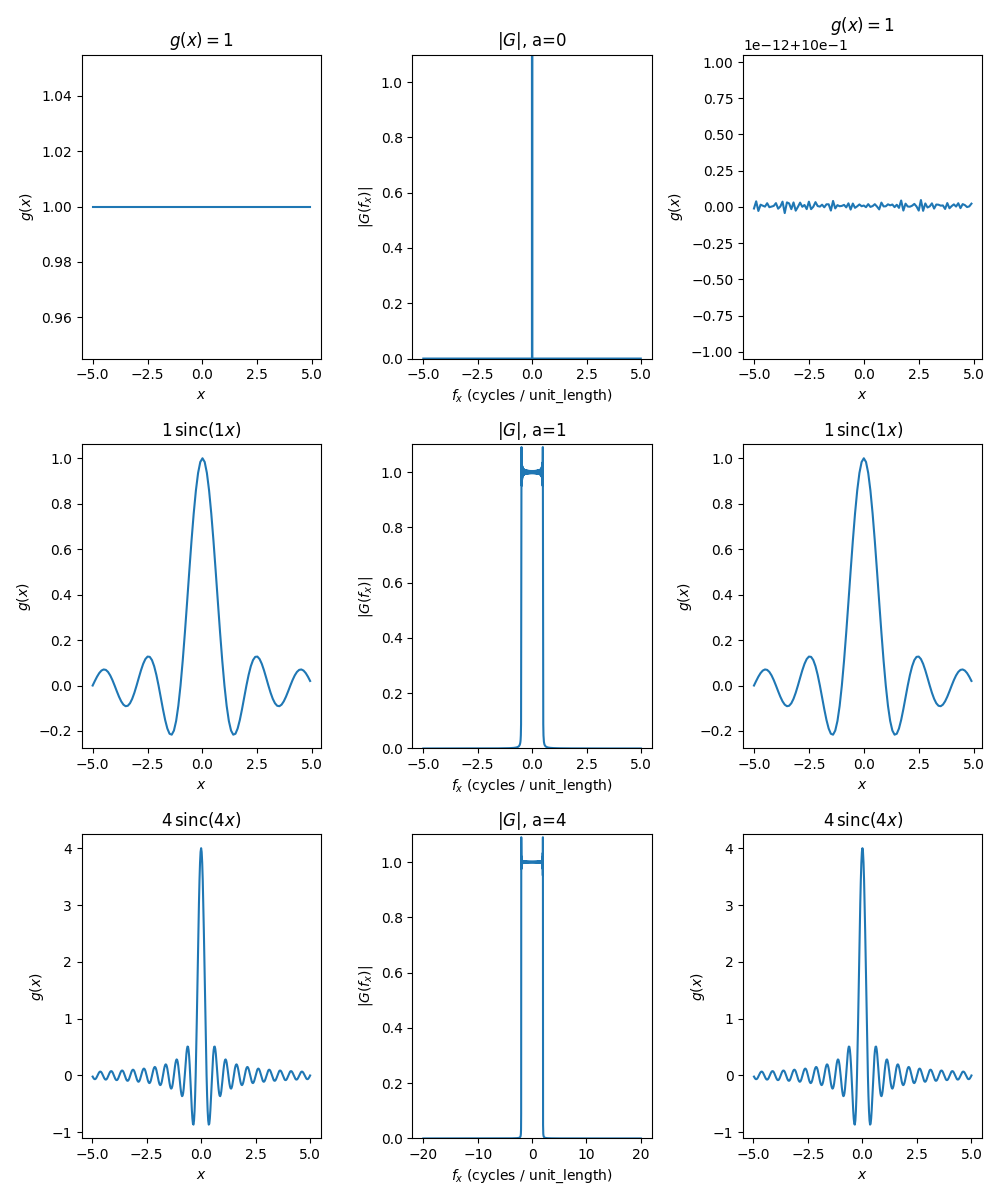
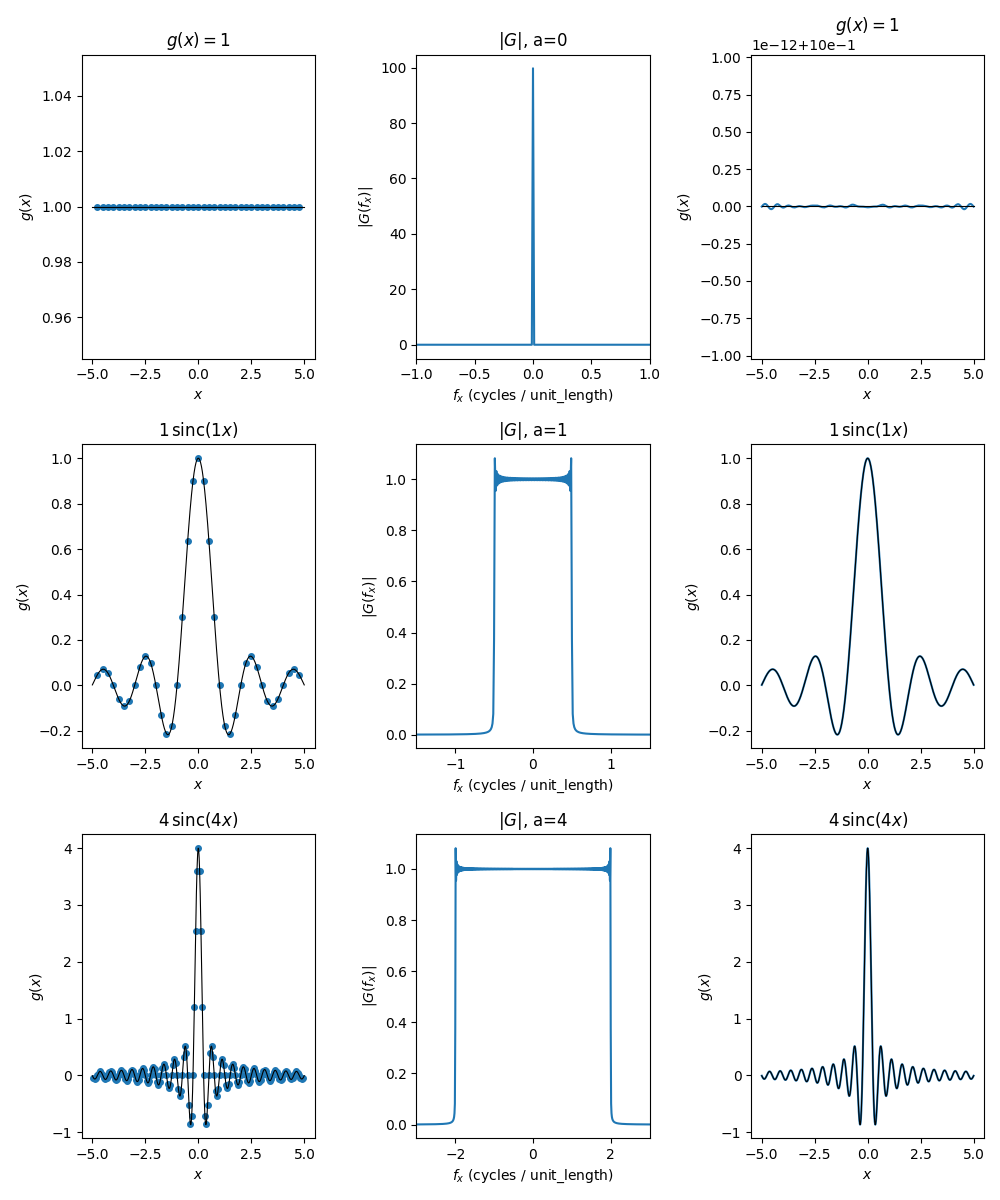
fix mismatched mirroring for symmetric sampling

diff --git a/dft.py b/dft.py
@@ -1,23 +1,18 @@
 import numpy as np
 import matplotlib.pyplot as plt 
 
-from functions.rect import rect_1d
-from functions.sgn import sgn
-from functions.tri import tri
-
 def dft(f, xs, freqs):
     dx = xs[1] - xs[0]
     F = np.zeros(len(freqs), dtype=complex)
     for k, f_x in enumerate(freqs):
         F[k] = np.sum(f * np.exp(-2j*np.pi * f_x * xs))
-
     return F * dx
 
 def inverse_dft(F, freqs, xs_out):
+    dfx = freqs[1] - freqs[0]
     f = np.zeros(len(xs_out), dtype=complex)
     for i, x in enumerate(xs_out):
         f[i] = np.sum(F * np.exp(+2j*np.pi * freqs * x)) * dfx
-
     return f
 
 def derive_xs_freqs(dx, lx):
@@ -33,12 +28,14 @@ def nyquist_rate(dx, lx, thresh=0.99):
     f = np.sinc(xs)
     power = np.abs(dft(f, xs, freqs))**2
 
-    order = np.argsort(np.abs(freqs))            # sort power & freqs together
+    order = np.argsort(np.abs(freqs))
     frac = np.cumsum(power[order]) / power.sum()
     B = np.abs(freqs)[order][np.searchsorted(frac, thresh)]
     return 2 * B
 
 def plot_transform(dx, lx):
+    OVERSAMPLE = 4
+    dx /= OVERSAMPLE
     scales = [0, 1, 4]
     fig, axes = plt.subplots(len(scales), 3, figsize=(10, 12))
 
@@ -46,40 +43,47 @@ def plot_transform(dx, lx):
         func_type = "sinc"
         if a != 0: 
             dx /= a
-        xs = np.arange(-lx / 2, lx / 2, dx)
-        dfx = 1/lx
-        bx = 1/dx
-        freqs = np.arange(-bx/2, bx/2, dfx)
+            
+        xs_neg = np.arange(0, -lx / 2, -dx)[1:]
+        xs_pos = np.arange(0, lx / 2, dx)
+        xs = np.concatenate((np.flip(xs_neg), xs_pos))
+        mask = np.abs(xs) < 5
         f = np.where(a == 0, np.ones_like(xs), a * np.sinc(a * xs))
 
-        mask = np.abs(xs) < 5
+        xs_fine_neg = np.arange(0, -lx / 2, -1e-2)[1:]
+        xs_fine_pos = np.arange(0, lx / 2, 1e-2)
+        xs_fine = np.concatenate((np.flip(xs_fine_neg), xs_fine_pos))
+        mask_fine = np.abs(xs_fine) < 5
+        f_fine = np.where(a == 0, np.ones_like(xs_fine), a * np.sinc(a * xs_fine))
+
+        dfx = 1 / (len(xs) * dx)
+        bx = 1/dx
+        freqs_neg = np.arange(0, -bx / 2, -dfx)[1:]
+        freqs_pos = np.arange(0, bx / 2, dfx)
+        freqs = np.concatenate((np.flip(freqs_neg), freqs_pos))
+        decon = dft(f, xs, freqs)
+        recon = inverse_dft(decon, freqs, xs_fine).real
+
         title = "$g(x) = 1$" if a == 0 else f"${a}\\,\\mathrm{{{func_type}}}({a}x)$"
 
-        xs_fine = np.arange(-lx/2, lx/2, 1e-2)
-        truth_fine = np.ones_like(xs_fine) if a == 0 else a*np.sinc(a*xs_fine)
-        mask_fine = np.abs(xs_fine) < 5
-        F = dft(f, xs, freqs)
-        recon = inverse_dft(F, freqs, xs_fine).real
-        err = np.max(np.abs(recon - truth_fine)[np.abs(xs_fine) < lx/4])
-
-        axes[row, 0].plot(xs_fine[mask_fine], a*np.sinc(a*xs_fine[mask_fine]), 'k-', lw=0.8)
         axes[row, 0].plot(xs[mask], f[mask], 'o', ms=4)
+        axes[row, 0].plot(xs_fine[mask_fine], f_fine[mask_fine], 'k-', lw=0.8)
         axes[row, 0].set_title(title)
         axes[row, 0].set_xlabel("$x$")
         axes[row, 0].set_ylabel("$g(x)$")
 
-        axes[row, 1].plot(freqs, np.abs(F))
+        F_XLIM = a * 0.5 + 1
+        axes[row, 1].plot(freqs, np.abs(decon))
+        axes[row, 1].set_xlim(-F_XLIM, F_XLIM)
         axes[row, 1].set_title(f"$|G|$, a={a}")
-        axes[row, 1].set_ylim(0, 1.1)
         axes[row, 1].set_xlabel("$f_x$ (cycles / unit_length)")
         axes[row, 1].set_ylabel("$|G(f_x)|$")
 
         axes[row, 2].plot(xs_fine[mask_fine], recon[mask_fine])
+        axes[row, 2].plot(xs_fine[mask_fine], f_fine[mask_fine], 'k-', lw=0.8)
         axes[row, 2].set_title(title)
         axes[row, 2].set_xlabel("$x$")
         axes[row, 2].set_ylabel("$g(x)$")
-        axes[row, 2].plot(xs_fine[mask_fine], truth_fine[mask_fine], 'k-', lw=0.8)
-        axes[row, 2].set_title(f"recon, err={err:.2e}")
 
         if a != 0: 
             dx *= a
@@ -100,7 +104,9 @@ def sampling_example(dx, lx):
         xs = np.concatenate((np.flip(xs_neg), xs_pos))
         dfx = 1/lx
         bx = 1/_dx
-        freqs = np.arange(-bx/2, bx/2, dfx)
+        freqs_neg = np.arange(0, -bx / 2, -dfx)[1:]
+        freqs_pos = np.arange(0, bx / 2, dfx)
+        freqs = np.concatenate((np.flip(freqs_neg), freqs_pos))
 
         mask = np.abs(xs) < 5
         title = f"Spacing: {_dx:.4f}"
@@ -139,16 +145,7 @@ def sampling_example(dx, lx):
     plt.show()
 
 
-dx = 5 / 2
+dx = 1
 lx = 1e2
-xs = np.arange(-lx / 2, lx / 2, dx)
-dfx = 1/lx
-bx = 1/dx
-freqs = np.arange(-bx/2, bx/2, dfx)
-N = len(xs)
-# assert len(freqs) == N
-# assert np.isclose(dx * dfx, 1/N) #Check space-bandwidth product
-# assert np.allclose(inverse_dft(dft(np.sinc(xs), xs, freqs), freqs, xs).real, np.sinc(xs), atol=1e-10)
-
-# plot_transform(dx, lx)
-sampling_example(dx, lx)
+plot_transform(dx, lx)
+# sampling_example(dx, lx)

diff --git a/functions/2D/rect_2d.py b/functions/2D/rect_2d.py
@@ -1,0 +1,6 @@
+import numpy as np
+
+def rect_2d(x, y): 
+    f_x = np.select([np.absolute(x) < 1/2, np.absolute(x) == 1/2], [1, 1/2], default=0)
+    f_y = np.select([np.absolute(y) < 1/2, np.absolute(y) == 1/2], [1, 1/2], default=0)
+    return f_x * f_y

diff --git a/functions/1D/rect_1d.py b/functions/1D/rect_1d.py
@@ -1,0 +1,4 @@
+import numpy as np
+
+def rect_1d(x, a):
+    return np.select([np.absolute(a * x) < 1/2, np.absolute(a * x) == 1/2], [1, 1/2], default=0)

diff --git a/functions/1D/sgn.py b/functions/1D/sgn.py
@@ -1,0 +1,5 @@
+import numpy as np 
+import matplotlib.pyplot as plt 
+
+def sgn(x): 
+    return np.select([x > 0, x < 0], [1, -1], default=0)

diff --git a/functions/1D/tri_1d.py b/functions/1D/tri_1d.py
@@ -1,0 +1,5 @@
+import numpy as np
+import matplotlib.pyplot as plt 
+
+def tri(x): 
+    return np.where(np.abs(x) <= 1, 1 - np.abs(x), 0)
